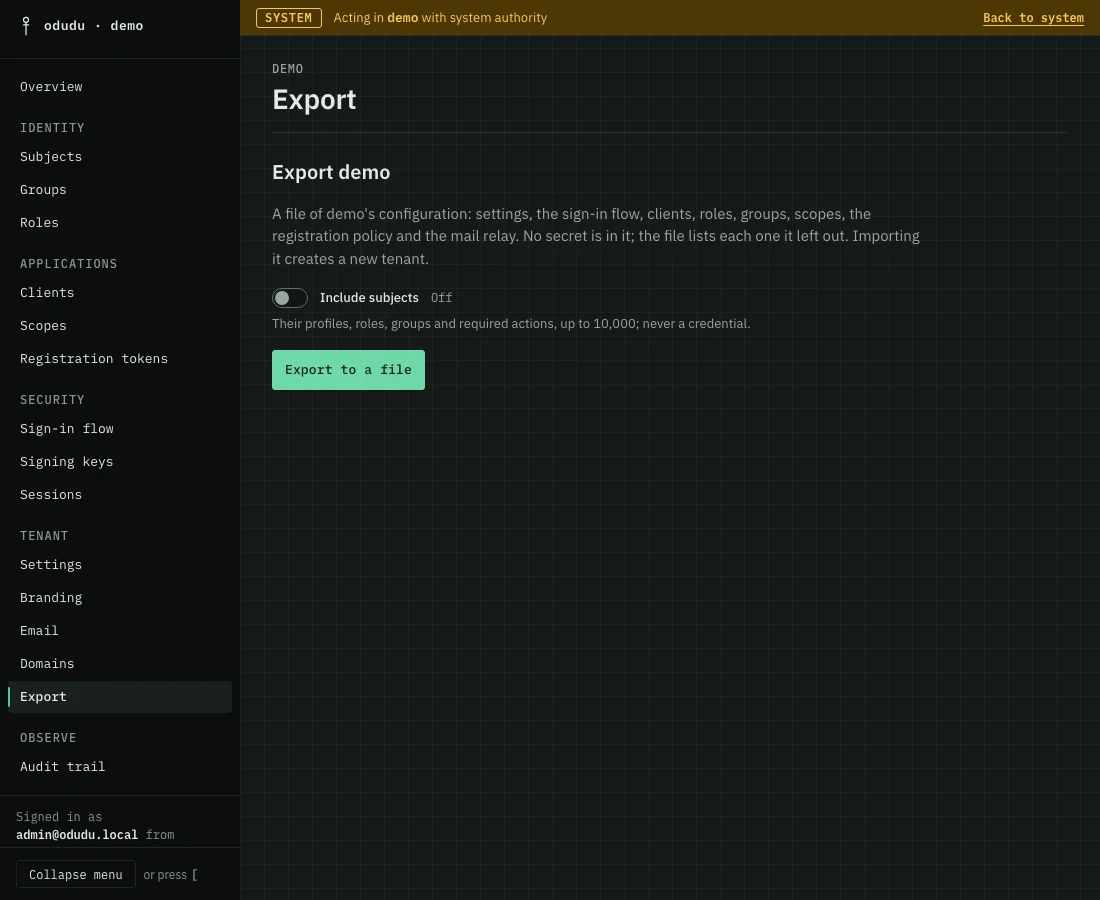
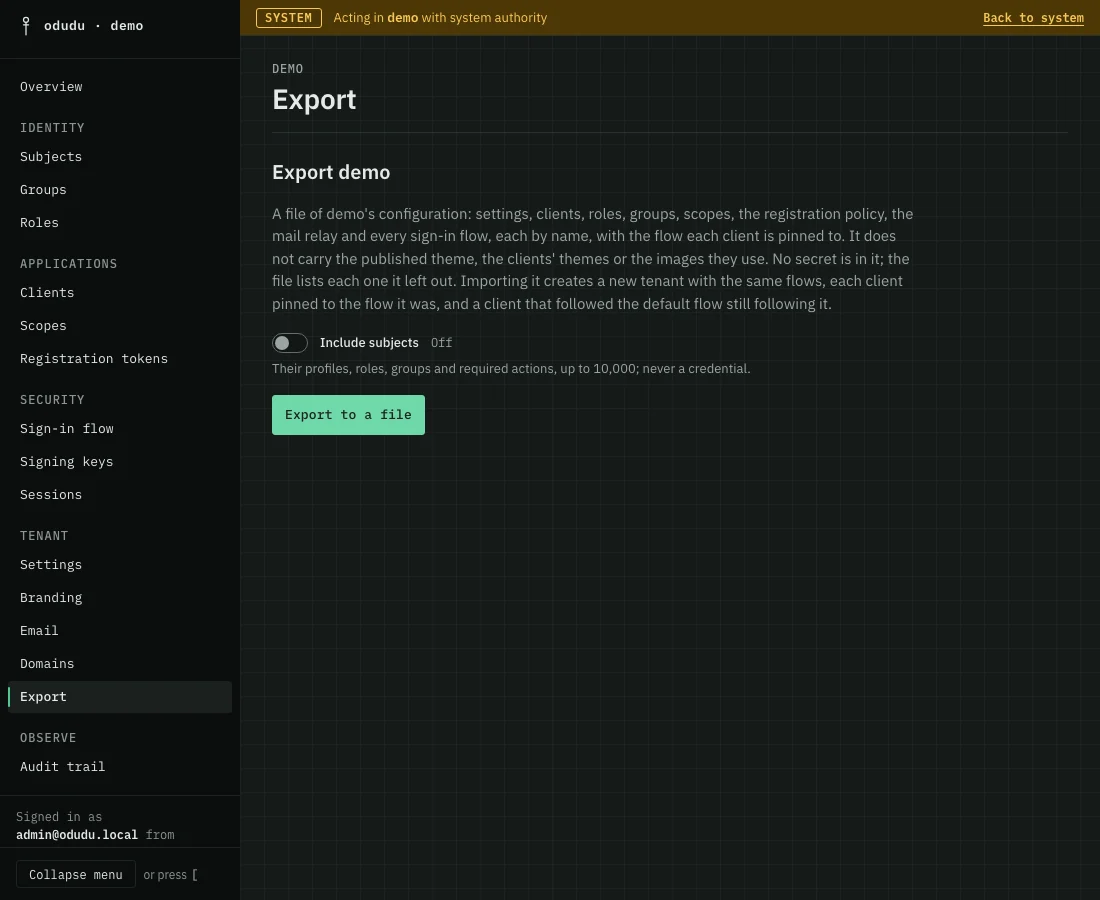
docs: the export page and screenshot say flows travel
tenants.mdx and clients.mdx say what an export carries now, the Unreleased changelog gains the entry, and the export screenshot and records are regenerated.

Changed region(s): [[0.2473, 0.2178, 0.8345, 0.4978]]

diff --git a/CHANGELOG.md b/CHANGELOG.md
@@ -8,6 +8,7 @@ All notable changes to Odudu are written here, newest first. The format follows
 
 ### Added
 
+- A tenant export carries every sign-in flow, each by name, and the flow each client is pinned to, and an import restores them, so a client keeps the flow it ran after a move between installations. The document gains `flow_name` (the name of the default flow, which a tenant may have changed), `flows` (every other flow, by name, at most 19) and a `flow` on each client (a flow's name, the default's name for a client pinned to it, or null for a client that follows the default). An import refuses a flow name used twice, a named flow that takes the default's name, and a client that names a flow the document does not hold, each at its path, before it writes anything. A document exported before this release still imports and leaves every client on the default flow, named `default`. A server from before this release refuses a document that carries the new members, naming the unknown key. The published theme, the clients' themes and the images they use are still not carried by an export; this release leaves them out too.
 - A tenant chooses whether its registration form asks for a username, under Registration and recovery in the console's Settings (**Username at registration**) or through the settings API as `registration_username`: `required` (the default, as before), `optional` (a blank field gets a generated handle) or `generated` (no username field, and every new account gets a handle of `u-` and ten lowercase letters and digits). `optional` and `generated` need both `login_with_email` and `verify_email` on, because a person with no chosen username signs in by email, and the server refuses the change otherwise and refuses turning either off while the setting is not `required`. A person who chose no username has the handle as their username, and an application receives it as `preferred_username`; it is not an identifier, which is `sub`. A tenant document from before the setting imports with `required`.
 - The “(required)” after a label on the registration and update-profile pages and the “(optional)” on the registration page are each an element of their own, with the classes `marker`, `marker-required` and `marker-optional`, so a tenant stylesheet can colour or resize them. A stylesheet cannot replace the word with an asterisk: the checker accepts only `content: none` or an empty string. The pages look the same until a stylesheet says otherwise.
 - Each tenant serves a "me" API where a signed-in person reads their own account with their own access token: `GET /tenants/<name>/me/profile`, `/me/credentials`, `/me/sessions` and `/me/consents` (at `/me/...` on a tenant's own domain). A token for it names the tenant's `/me` address as its audience and holds `me:read`. `me:read` and `me:write` are two new scopes every tenant defines, and a tenant that exists before the upgrade gets them when the server migrates; no client has either until you assign it, a request for either is refused with `invalid_scope` at any audience but the tenant's `/me` address, and a request for `me:write` carries `me:read` with it. No path or parameter names a person: the token's own subject is the only one read. A list takes `limit` and `cursor` and answers `items` and `next_cursor`; the credential list adds `recovery_codes_left`, and carries no secret, seed, key or hash. A token that holds `me:write` without `me:read` is refused with `insufficient_scope`. A read refuses a query member it does not know with `400`, `profile` included.
@@ -45,7 +46,7 @@ All notable changes to Odudu are written here, newest first. The format follows
 - A tenant can hold several sign-in flows, up to 20 in all, the default flow included. `GET /admin/tenants/<name>/flows` lists them by name (never paged, with a `total` and an `ETag`), `POST` makes one from a name and steps (1 to 64 characters, unique within the tenant, at most 20 steps), `GET /flows/<id>` reads one, `PUT /flows/<id>` replaces its name and steps and needs `If-Match` (`428` without it, `412` when stale), `POST /flows/<id>/make-default` makes it the tenant's default, in one transaction, on its `ETag` in `If-Match` (audited as `flow.default_set`; a sign-in already under way takes its next step from the new default), and `DELETE /flows/<id>` removes it, on the flow's `ETag` in `If-Match` like the other writes, so a flow another administrator has changed is not deleted unseen. A name another flow holds is refused with `409` `flow-name-taken`, a 21st flow with `409` `flow-limit`, and deleting the default flow with `409` `default-flow`; a step list is refused at save time with the `400` types `PUT /flow/executions` already has, the unknown and the repeated authenticator carrying `errors` that name the step as `steps[N].authenticator`. The creates, replaces and deletes are audited as `flow.create`, `flow.amend` and `flow.delete`, with the name and steps. `GET`/`PUT /flow/executions` still read and write the default flow's steps, and `PUT` now refuses more than 20 steps with `400`. A client names the flow it runs through its `flow_id`; a client that names none runs the default.
 - The console's Sign-in flow page lists the tenant's flows with the default marked, makes one from the default's steps (**New flow**), opens one to change its name and steps with the same editor as the default's, makes any other flow the default (**Make default**), and deletes any but the default, each after a confirmation.
 - An MCP client with `mcp:read` and a tenant administrator's `manage-tenant` capability reads the flows with `list_flows` and `get_flow`, so the endpoint now has 64 tools that read. Creating, replacing and deleting a flow are not offered to an agent.
-- A client can run a sign-in flow of its own. Its `flow_id` setting is the id of one of the tenant's flows, or null, which every client has until it is set, to follow the tenant's default: a field of the client in the admin API (create, amend and read, with `unknown_flow` in `errors` for a flow the tenant does not have), a **Sign-in flow** choice on the Advanced tab of the client in the console, and `odudu seed client --flow <name>`. `/authorize` runs that flow for a request from the client: the first step offered, the steps after it and whether a single sign-on session a person already holds is enough are the flow's, so two clients of one tenant can ask for different things. A sign-in stays on the flow its client named when it began, however the client's setting changes before it ends; one that began on the default follows the tenant's default at each step, as before. The audit trail records `flow_id` on `client.create` and `client.amend`. A tenant export carries the default flow only, so it does not carry a client's `flow_id`.
+- A client can run a sign-in flow of its own. Its `flow_id` setting is the id of one of the tenant's flows, or null, which every client has until it is set, to follow the tenant's default: a field of the client in the admin API (create, amend and read, with `unknown_flow` in `errors` for a flow the tenant does not have), a **Sign-in flow** choice on the Advanced tab of the client in the console, and `odudu seed client --flow <name>`. `/authorize` runs that flow for a request from the client: the first step offered, the steps after it and whether a single sign-on session a person already holds is enough are the flow's, so two clients of one tenant can ask for different things. A sign-in stays on the flow its client named when it began, however the client's setting changes before it ends; one that began on the default follows the tenant's default at each step, as before. The audit trail records `flow_id` on `client.create` and `client.amend`. A tenant export carries each client's flow by name instead of its id.
 - A flow some client names is not deleted: `DELETE /flows/<id>` is refused with `409` `flow-in-use`, whose `detail` says how many clients name it and gives the `client_id` of at most ten of them. `GET /flows` gives each flow a `client_count`, and the console's flows list shows it in a Clients column and says so in the delete dialog.
 - A step of a sign-in flow can set what a new authenticator is made with, for the flows that ask for it: an `otp` step takes `algorithm`, `digits` and `period`, a `passkey` step `user_verification` and `resident_key`, a `recovery-code` step `count`, each under the same choices and range as the tenant setting of the same meaning, as `settings` on the step in `POST /admin/tenants/<name>/flows`, `PUT /admin/tenants/<name>/flows/<id>` and `PUT /flow/executions`. A key left out takes the tenant's value, so a flow with no settings behaves as before. A person who enrols during a sign-in is enrolled under the flow that sign-in runs, the flow their client names or else the default; what was enrolled earlier keeps the values it was made with. Settings on any other step, or a key its authenticator does not read, are refused with `400` `flow-step-settings` naming the step. A tenant export and import carry them, and the audit rows of a flow's creation, amendment and replacement through `PUT /flow/executions` record them.
 - The Sign-in flow page shows each `otp`, `passkey` and `recovery-code` step's settings beside it, each starting at the tenant's own value, and keeps the settings a flow already has when only its order is saved.
